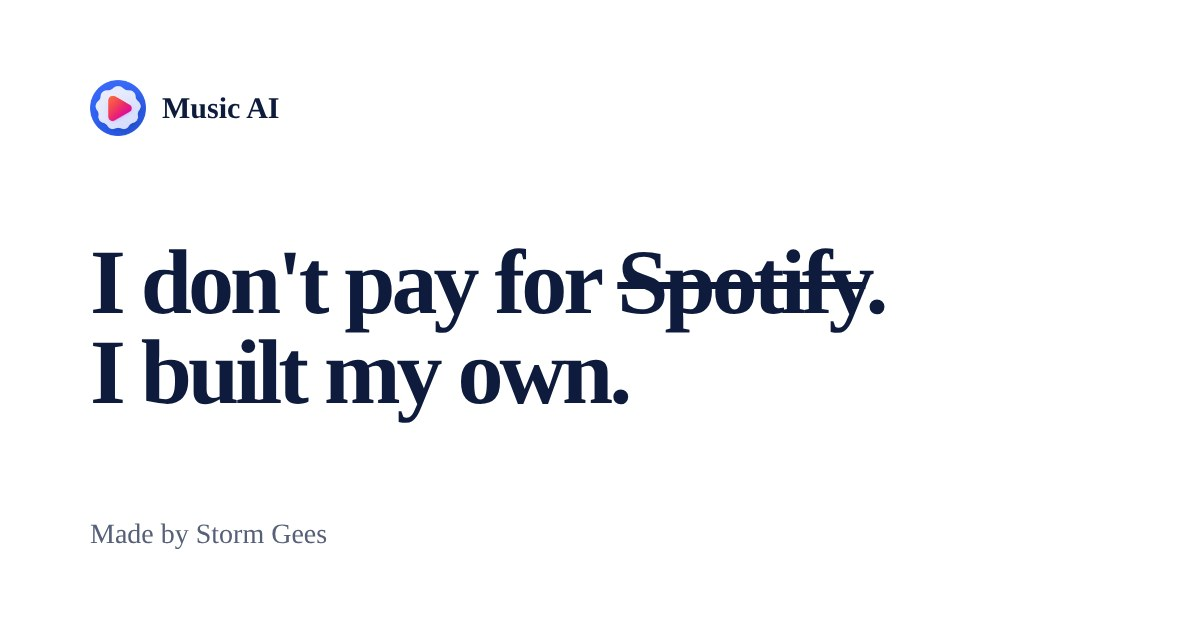
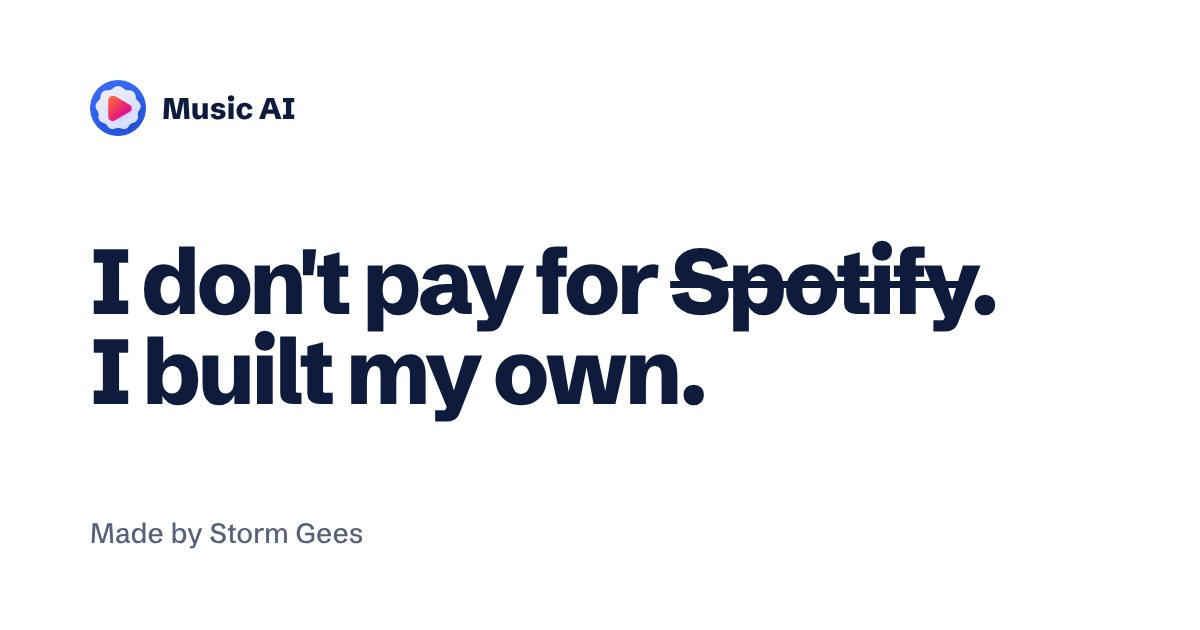
feat(site): self-hosted font and clean share image
Claude-Session: https://claude.ai/code/session_011JbMb3reMebQBv1UvEcust

Changed region(s): [[0.0617, 0.3619, 0.8325, 0.6635], [0.0617, 0.8143, 0.3083, 0.8746], [0.1233, 0.1508, 0.2467, 0.2111]]

diff --git a/assets/musicai/site/index.html b/assets/musicai/site/index.html
@@ -13,10 +13,9 @@
 <meta name="theme-color" content="#ffffff">
 <link rel="icon" href="ASSET/favicon.png">
 <link rel="apple-touch-icon" href="ASSET/logo.png">
-<link rel="preconnect" href="https://fonts.googleapis.com">
-<link rel="preconnect" href="https://fonts.gstatic.com" crossorigin>
-<link href="https://fonts.googleapis.com/css2?family=Schibsted+Grotesk:wght@400;500;600;700;800&display=swap" rel="stylesheet">
+<link rel="preload" href="FONT" as="font" type="font/woff2" crossorigin>
 <style>
+@font-face{font-family:"Schibsted Grotesk";src:url(FONT) format("woff2");font-weight:400 900;font-style:normal;font-display:swap}
 :root{
   --paper:#ffffff;
   --mist:#f2f4f8;
